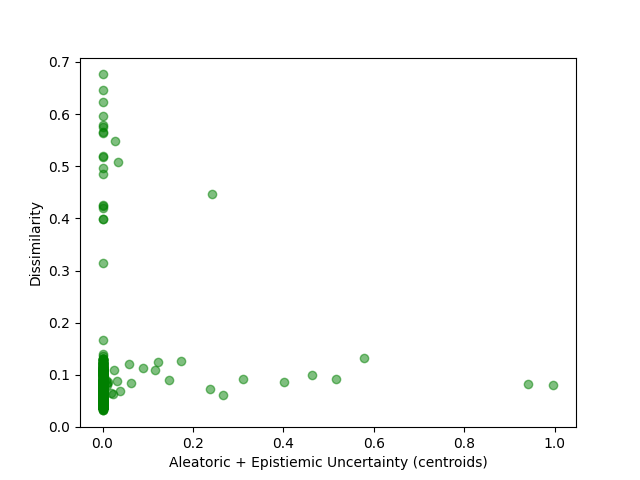
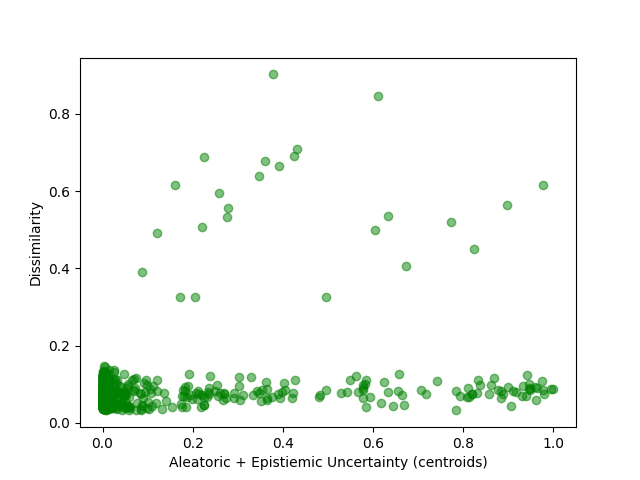
test

diff --git a/shapXp.py b/shapXp.py
@@ -153,7 +153,7 @@ def robustness_test(uncertainty, dataset):
     print(f"Average p-value ({dataset}_{uncertainty}): {p_value}")
 
     corr = np.vstack((avg_corr_coef, avg_p_value)).T
-    np.save(f"output/correlation_{dataset.lower()}_{uncertainty}.npy", corr)
+    np.save(f"output/centroids_al/correlation_{dataset.lower()}_{uncertainty}.npy", corr)
     
     # Combine and sort by uncertainty
     combined = np.vstack((global_uncertainties, global_unrobustness)).T
@@ -164,7 +164,7 @@ def robustness_test(uncertainty, dataset):
     # avg_uncertainties = [group[:, 0].mean() for group in groups]
     # avg_unrobustness = [group[:, 1].mean() for group in groups]
     
-    np.save(f"output/data_{dataset.lower()}_{uncertainty}.npy", combined_sorted)
+    np.save(f"output/centroids_al/data_{dataset.lower()}_{uncertainty}.npy", combined_sorted)
     plt.figure()
     plt.scatter(combined_sorted[:, 0], combined_sorted[:, 1], alpha=0.5, c='green')
     plt.xlabel(f"Aleatoric + Epistiemic Uncertainty ({uncertainty})")

diff --git a/main.py b/main.py
@@ -11,23 +11,23 @@ if __name__ == "__main__":
         # "GLASS",
         # "IONOSPHERE",
         # "BREAST_CANCER",
-        "HEART",
+        # "HEART",
         # "IRIS",
         "SONAR",
-        "LIVER",
+        # "LIVER",
         # "WINE",
         ]
     uncertainties = [
         # "entropy",
         # "eknn",
-        "density",
-        # "centroids",
+        # "density",
+        "centroids",
     ]
     for dataset_name in dateset_names:
         for uncertainty in uncertainties:
             exp.robustness_test(uncertainty, dataset_name)
     print("Done!")
-
+ 
     # data = np.load("output/data_breast_cancer_eknn.npy", allow_pickle=True)
     # print(data.shape)
     # X, y = dt.load_data("BREAST_CANCER")

diff --git a/uncertainties.py b/uncertainties.py
@@ -6,7 +6,7 @@ from lib.Uncertainty_ent import model_uncertainty
 from sklearn.neighbors import KNeighborsClassifier
 from scipy.optimize import minimize_scalar
 
-def centroids_uncertainties(X, y, X_test, length_scale=0.1):
+def centroids_uncertainties(X, y, X_test, length_scale=1):
     centroids = get_centroids(X, y)
     size = len(centroids)
 
